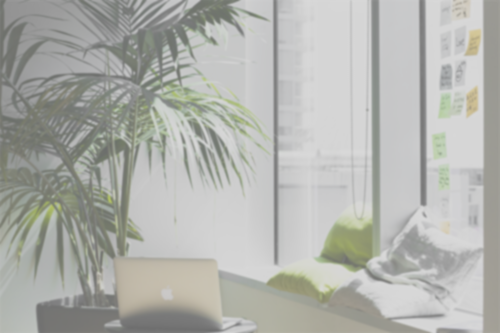
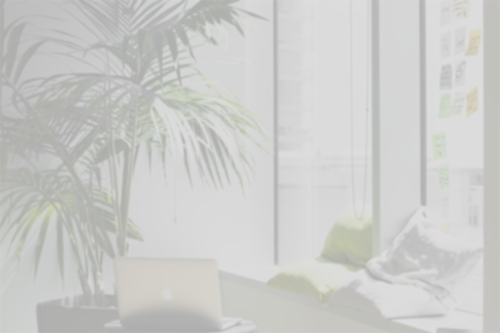
Add files via upload

diff --git a/index.html b/index.html
@@ -39,8 +39,8 @@
     <div class="qoute">
       <p class="words">Creativity . Freedom</p>
     </div>
-    <div class="video"><video class="slide1" muted loop autoplay>
-        <source src="videos/home.mp4" alt="slide-1" type="video/mp4">
+    <div class="video"><video class="slide1" muted loop autoplay poster="images/main.png"> 
+        <source src="videos/home.mp4" alt="slide-1" type="video/mp4" >
       </video>
     </div>
   </div>
